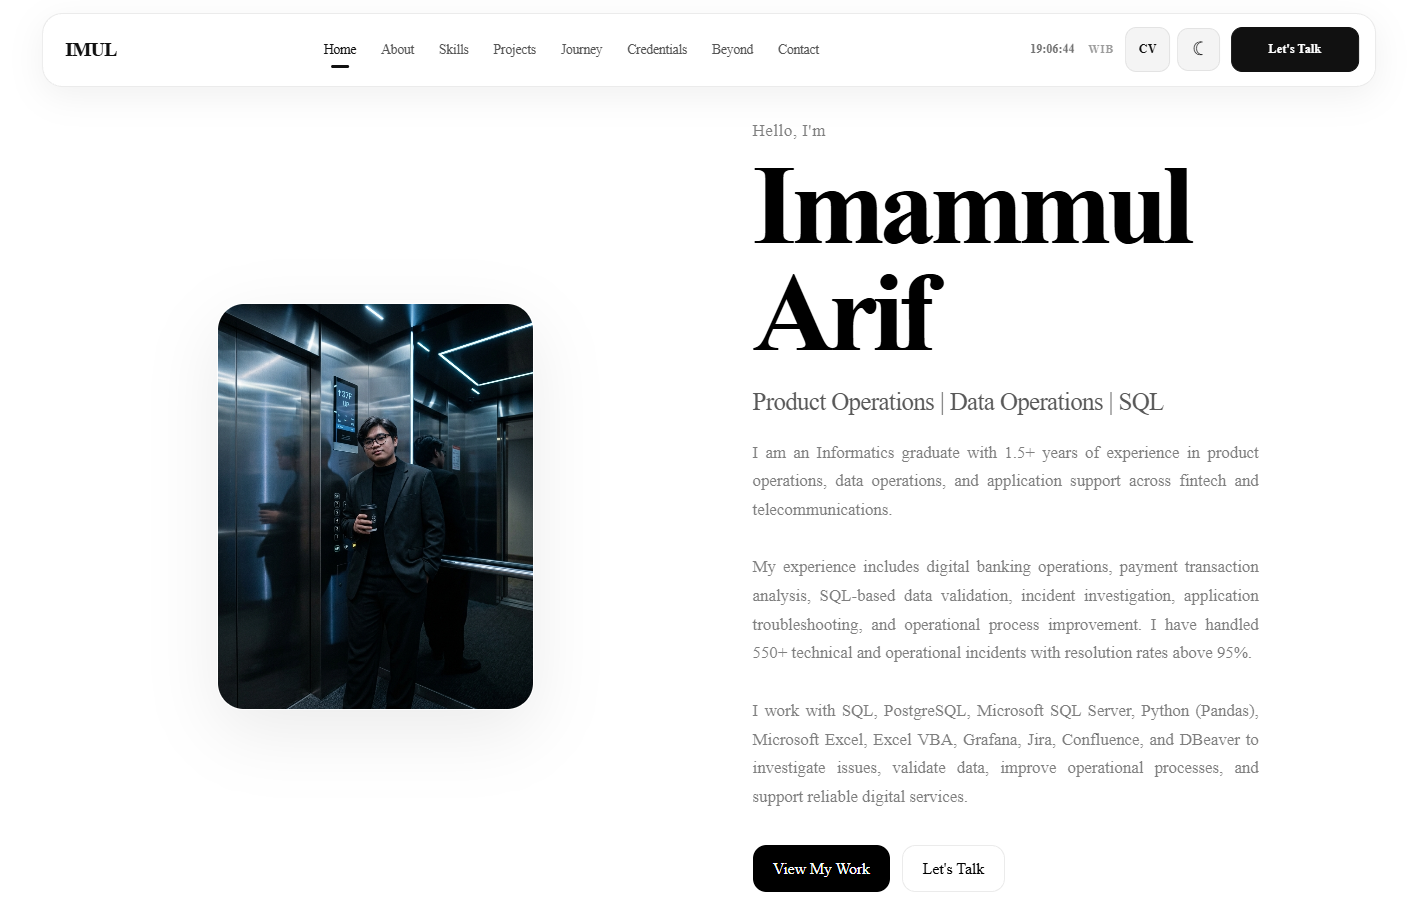
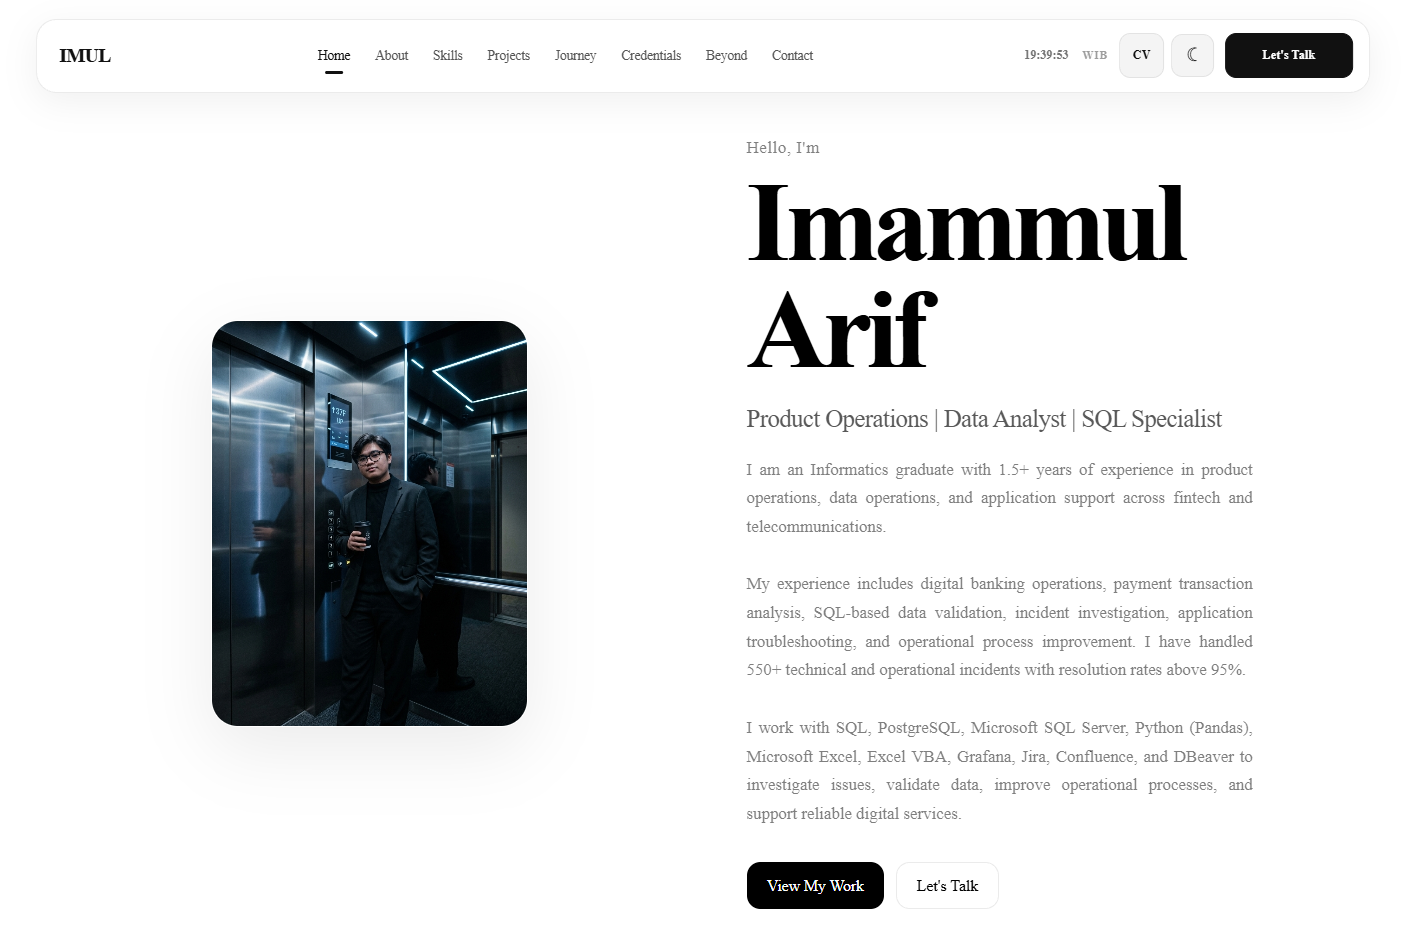
Revisi

diff --git a/index.html b/index.html
@@ -133,7 +133,7 @@
       </p>
 
       <p class="hero-description">
-        I am an Informatics graduate with 1.5+ years of experience in product operations, data operations, and application support across fintech and telecommunications.
+        I am an Informatics graduate with 1.5+ years of professional experience in Product Operations, Data Operations, and Application Support across the fintech and telecommunications industries. I specialize in SQL-based data validation, payment operations, incident management, application troubleshooting, and operational process improvement.
 <br>
 <br>
         My experience includes digital banking operations, payment transaction analysis, SQL-based data validation, incident investigation, application troubleshooting, and operational process improvement. I have handled 550+ technical and operational incidents with resolution rates above 95%.
@@ -191,7 +191,7 @@
       <div class="about-text">
 
         <p class="about-intro">
-          I am a Product Operations and Data Operations professional with experience in fintech and telecommunications.
+          I am a Product Operations and Data Operations professional with 1.5+ years of experience across the fintech and telecommunications industries.
         </p>
         <p>
           At PT Bank Raya Indonesia Tbk, I supported digital banking operations by investigating transaction-related incidents across QRIS, interbank transfers, e-wallet transactions, merchant settlements, and digital banking applications. My work included SQL-based data validation, operational monitoring, root cause investigation, and coordination with engineering teams and external banking and payment partners.
